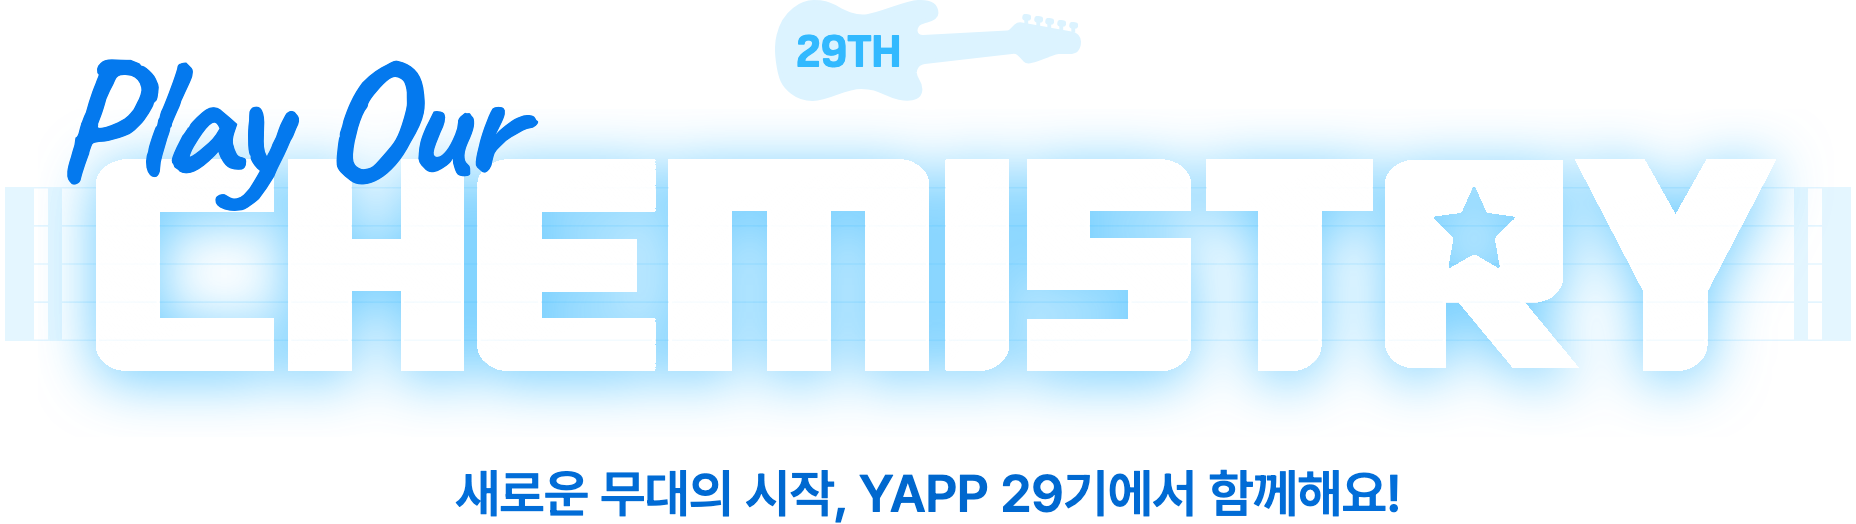
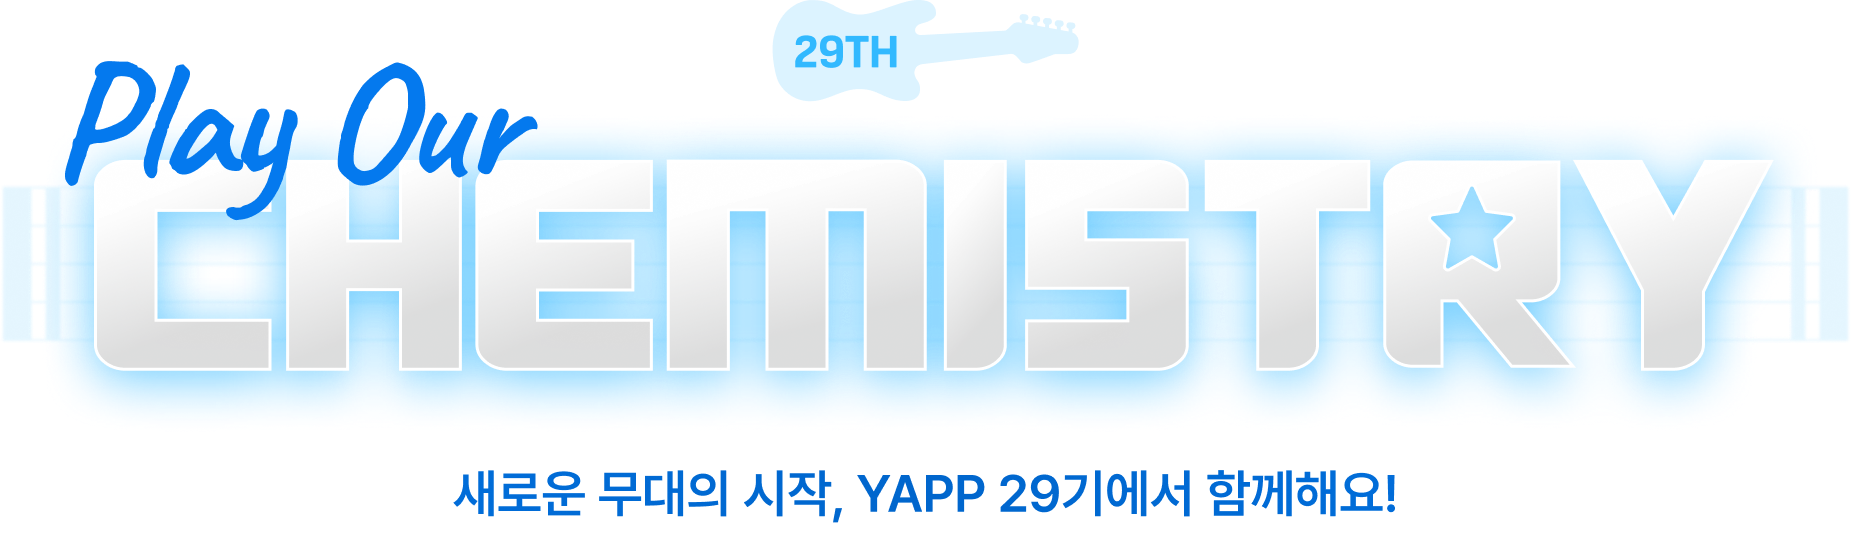
fix: 메인 타이틀 이미지를 Figma 렌더링으로 교체

diff --git a/components/home/IntroSection/Banner29th.tsx b/components/home/IntroSection/Banner29th.tsx
@@ -10,9 +10,9 @@ const Banner29th = () => {
         <Image
           src="/assets/images/29th/title_pc.png"
           alt="Play Our CHEMISTRY - 새로운 무대의 시작, YAPP 29기에서 함께해요!"
-          width={928}
-          height={262}
-          sizes="(max-width: 833px) 90vw, (max-width: 1920px) 928px, 49vw"
+          width={926}
+          height={268}
+          sizes="(max-width: 833px) 90vw, (max-width: 1920px) 926px, 49vw"
           priority
         />
       </Banner29thTitleBox>
@@ -87,7 +87,7 @@ const BannerLayout = styled.div`
   --banner-unit: max(100vw / 1920, 100vh / 1200);
   --art-height: 1200;
   --title-top: 201;
-  --title-width: 928;
+  --title-width: 926;
 
   /*
    * 화면이 낮아서 배경이 위아래로 넘칠 때 배경을 위로 올리는 양.
